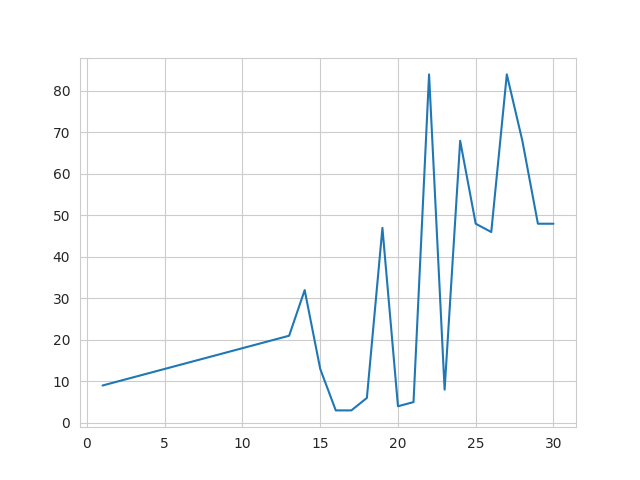
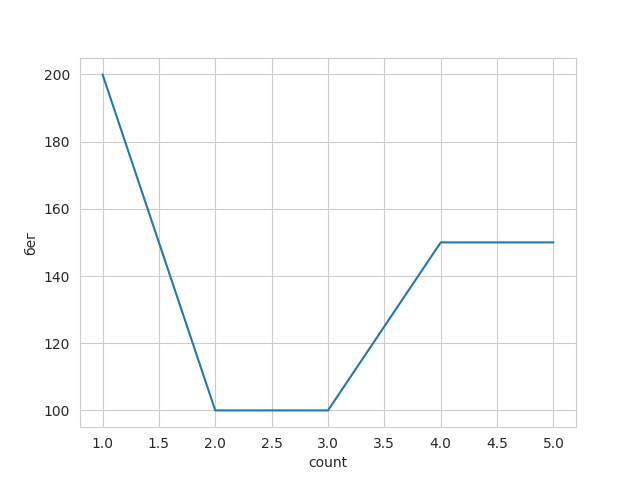
profile menu added

diff --git a/bot.py b/bot.py
@@ -1,12 +1,16 @@
-from numpy import count_nonzero
+import matplotlib.pyplot as plt
+import seaborn as sbs
+import pandas as pd
 import telebot
 from config import bot_token, db_uri
 import count
 import markup
-from markup import ProgramPages, ExercisePages, ExercisePagination, ProgresPagination
+from markup import ProgramPages, ExercisePages, ExercisePagination, ProgresPagination, hide_menu
 import time
 from db import Database
 from random import choice
+import traceback
+import db_fill.texts as texts
 
 bot = telebot.TeleBot(token=bot_token)
 pagination1 = ProgramPages(0, 5)
@@ -24,10 +28,32 @@ def start(message):
         db.add_user_to_user_column(message.from_user.id)
 
 
+@bot.message_handler(commands='score')
+def score(message):
+    bot.send_message(
+        chat_id=message.from_user.id,
+        text=texts.score,
+        reply_markup=markup.hide_menu()
+    )
+
+
+
 def random_motivation():
     with open('men_program/voitenko.txt', 'r') as f:
         line = f.readlines()
         return choice(line)
+
+
+def build_graph(column, lst):
+    if len(lst) > 30: 
+        lst = lst[-30:]
+    for i in range(len(lst)):
+        lst[i] = int(lst[i])
+    df = pd.DataFrame({column: lst, 'count': list(range(1, len(lst)+1))})
+    sbs.set_style("whitegrid")
+    sbs.lineplot(data = df, x = 'count', y = column, legend='full')
+    plt.savefig('images/graph.png')
+    plt.clf()    
 
 
 @bot.callback_query_handler(func=lambda call: True)
@@ -125,6 +151,7 @@ def callbacks(callback):
     elif callback.data.startswith('back') or callback.data.startswith('feet') or callback.data.startswith('breast') or callback.data.startswith('hands') or callback.data.startswith('trapeze') or callback.data.startswith('delta') or callback.data.startswith('press'):
         group = []
         num = []
+        pagination3.current = 0
         for i in callback.data:
             if i.isnumeric():
                 num.append(i)
@@ -208,7 +235,7 @@ def callbacks(callback):
         msg = bot.edit_message_text(
                 chat_id=callback.from_user.id,
                 message_id=callback.message.message_id,
-                text='Напишите мне свой разультат в формате: "Упражнение - количество". \nЧтобы посмотреть пример записи и подробную информацию отправьте мне\n/score',
+                text='Напишите мне свой разультат в формате: "Упражнение количество". \nЧтобы посмотреть пример записи и подробную информацию отправьте мне\n/score',
                 reply_markup= markup.write_result_menu()
             )
         bot.register_next_step_handler(msg, write_result)
@@ -240,51 +267,70 @@ def callbacks(callback):
                 text=random_motivation(),
                 reply_markup= markup.progress_menu(callback.from_user.id, pagination4.start, pagination4.end))
 
+    elif callback.data.startswith('progress'):
+        column = ' '.join(callback.data.split('_')[1:])
+        graph = db.get_user_score_list(callback.from_user.id, column)
+        print(column, graph)
+        build_graph(column, graph)
+        bot.send_photo( 
+            chat_id=callback.from_user.id, 
+            photo=open('images/graph.png', 'rb'), 
+            caption = f'Ваш результат по {column}', 
+            reply_markup=markup.hide_menu()
+            )
 
-
-
-    # else: 
-
-
-        
-
+    elif callback.data == 'profile':
+        bot.edit_message_text(
+                chat_id=callback.from_user.id,
+                message_id=callback.message.message_id,
+                text=texts.profile(callback.from_user.first_name, callback.from_user.username, callback.from_user.language_code),
+                reply_markup= markup.profile_menu()
+        )
 
 
 
 def write_result(message):
     text = message.text
-    user = message.from_user.id
-    exercise_list = db.get_column_names('user_score')
+    if not text.startswith('/'):
+        user = message.from_user.id
+        exercise_list = db.get_column_names('user_score')
 
-    quan = []
-    exercise_name = []
+        quan = []
+        exercise_name = []
 
-    for i in text:
-        if i.isnumeric():
-            quan.append(i)
+        for i in text:
+            if i.isnumeric():
+                quan.append(i)
+            else: 
+                exercise_name.append(i)
+        if quan and exercise_name:
+            quan = int(''.join(quan))
+            exercise_name = ''.join(exercise_name)
+            el = count.find_closest(exercise_name.lower().strip(), exercise_list)
+            print(el[1])
+            db.add_to_user_score(user, el[1], quan)
+            db.add_to_user_columns(user, el[1])
+            bot.send_message(message.chat.id, text= f'Ваш результат успешно записан в группу: {el[1]}\nПроверьте результат в разделе Мой прогресс ', reply_markup=markup.write_result_again())
+
+
         else: 
-            exercise_name.append(i)
-    if quan and exercise_name:
-        quan = int(''.join(quan))
-        exercise_name = ''.join(exercise_name)
-        el = count.find_closest(exercise_name.lower().strip(), exercise_list)
-        print(el[1])
-        db.add_to_user_score(user, el[1], quan)
-        db.add_to_user_columns(user, el[1])
-        bot.send_message(message.chat.id, text= f'Ваш результат успешно записан в группу: {el[1]}\nПроверьте результат в разделе Мой прогресс ', reply_markup=markup.write_result_again())
+            bot.send_message(message.chat.id, text='Неправильный формат данных!\nЧтобы посмотреть пример записи и подробную информацию отправьте мне\n/score', reply_markup=markup.hide_menu())
+    else:
+        if text == '/score':
+            score(message)
 
+def send_exeption(exeption):
+    bot.send_message(
+        chat_id=-1001750080589,
+        text=exeption
+        )
 
-    else: 
-        bot.send_message(message.chat.id, text='Неправильный формат данных!\nЧтобы посмотреть пример записи и подробную информацию отправьте мне\n/score', reply_markup=markup.hide_menu())
-
-    
-
-            
 
 if __name__ == '__main__':
-    # while True:
-    #     try:
+    while True:
+        try:
             bot.polling(non_stop=True)
-        # except:
-        #     time.sleep(0.3)
+        except:
+            time.sleep(0.3)
+            send_exeption(traceback.format_exc())
 

diff --git a/db_fill/texts.py b/db_fill/texts.py
@@ -1,0 +1,23 @@
+score = """
+Привет, мужик!\n
+Для записи результата в базу данных вводи название упражнения и число количества повторений. \nНапример: "пресс 150"\n
+Я запишу твой результат и он отобразится в разделе "Мой прогресс".\n
+В базе данных строго определены упражнения для записи. Ты можешь записать свой результат по таким базовым упражнениям как: \n
+1. ходьба\n
+2. отжимания на брусьях\n
+3. скакалка\n
+4. подтягивания\n 
+5. приседания\n
+6. планка\n
+7. отжимания\n
+8. бег\n
+9. пресс\n
+10. турник\n
+А также все упражнения, доступные в разделе "Упражнения"\n
+При этом мне не важно, как именно вы напишете "отжимания" или "анжумания", я вас понимаю. Я сам люблю такие упражнения как "бегит", "прес качат" и другие.\n
+Надеюсь эта информация тебе поможет! Если что не так, пиши админу в разделе "Профиль"
+"""
+
+def profile(name, user_name, language):
+    a = f"""Имя: {name}\nНикнейм: {user_name}\nЯзык: {'русский' if language == 'ru' else 'не определен'}"""
+    return a

diff --git a/db.py b/db.py
@@ -111,11 +111,11 @@ class Database():
         res = list(self.get_user_score(user_id, column_name))
         if res[0]:
             res[0] += f'-{score}'
-            self.db.execute(f"UPDATE user_score SET {column_name} = '{res[0]}' WHERE user_id = '{user_id}'")
+            self.db.execute(f"""UPDATE user_score SET "{column_name}" = '{res[0]}' WHERE user_id = '{user_id}'""")
             self.db.connection.commit()
 
         else: 
-            self.db.execute(f"UPDATE user_score SET {column_name} = '{score}' WHERE user_id = '{user_id}'")
+            self.db.execute(f"""UPDATE user_score SET "{column_name}" = '{score}' WHERE user_id = '{user_id}'""")
             self.db.connection.commit()
 
     def add_to_user_columns(self, user_id, column_name):
@@ -136,14 +136,14 @@ class Database():
             self.db.connection.commit()
 
     def get_user_score_list(self, user_id, column):
-        self.db.execute(f"SELECT {column} FROM user_score WHERE user_id = '{user_id}'")
+        self.db.execute(f"""SELECT "{column}" FROM user_score WHERE user_id = '{user_id}'""")
         result = self.db.fetchone()
         result = result[0].split('-')
         return result
 
 
     def delete_user_result(self, user_id, column_name):
-        self.db.execute(f"UPDATE user_score SET {column_name} = '0' WHERE user_id = '{user_id}'")
+        self.db.execute(f"""UPDATE user_score SET "{column_name}" = '0' WHERE user_id = '{user_id}'""")
         self.db.connection.commit()
 
 

diff --git a/markup.py b/markup.py
@@ -3,7 +3,6 @@ from telebot.types import InlineKeyboardButton, InlineKeyboardMarkup
 from db import Database
 from config import db_uri
 
-
 @dataclass
 class ProgramPages:
     start: int
@@ -23,7 +22,6 @@ class ExercisePagination:
 class ProgresPagination:
     start: int
     end: int
-
 
 def menu():
     button3 = InlineKeyboardButton("Мои достижения", callback_data="my_result")
@@ -206,7 +204,7 @@ def progress_menu(user_id, start, end):
     back = InlineKeyboardButton(text='<<<<<', callback_data=f'my_result')
 
     for el in columns:
-        buttons.append(InlineKeyboardButton(text=el.capitalize(), callback_data=f'{el}'))
+        buttons.append(InlineKeyboardButton(text=el.capitalize(), callback_data=f'progress_{el}'))
 
     if len(columns) <= 5: 
         end = len(columns)
@@ -243,7 +241,21 @@ def progress_menu(user_id, start, end):
         print('что то не так')
 
 
-    pass
+def profile_menu():
+    button1 = InlineKeyboardButton(text='Написать админу', url='https://t.me/mogilyoy', callback_data=f'write_admin')
+    button2 = InlineKeyboardButton(text='Поддержать проект', url = 'https://www.tinkoff.ru/rm/mogilev.matvey2/dWoLB29372', callback_data=f'pay')
+    back = InlineKeyboardButton(text='<<<<<', callback_data=f'my_result')
+
+    all_buttons = InlineKeyboardMarkup(
+            [[button1], [button2], [back]], row_width=1
+        )
+    return all_buttons
+
+
+
+
+
+
 
 
     

diff --git a/count.py b/count.py
@@ -1,7 +1,4 @@
 from fuzzywuzzy import fuzz
-import matplotlib.pyplot as plt
-import seaborn as sbs
-
 
 def are_similar(s1, s2):
     if fuzz.ratio(s1, s2) >= 67:
@@ -27,12 +24,4 @@ def find_closest(s1: str, lst: list):
             a = similar_rating(s1, el.strip())
             b = el.strip()
     return a, b
-
-
-def build_graph(lst):
-    if len(lst) > 30: 
-        lst = lst[-30:]
-    sbs.set_style("whitegrid")
-    sbs.lineplot(x = list(range(1, len(lst) + 1)), y = lst, legend='full')
-    plt.savefig('images/graph.png')  
-
+ 
